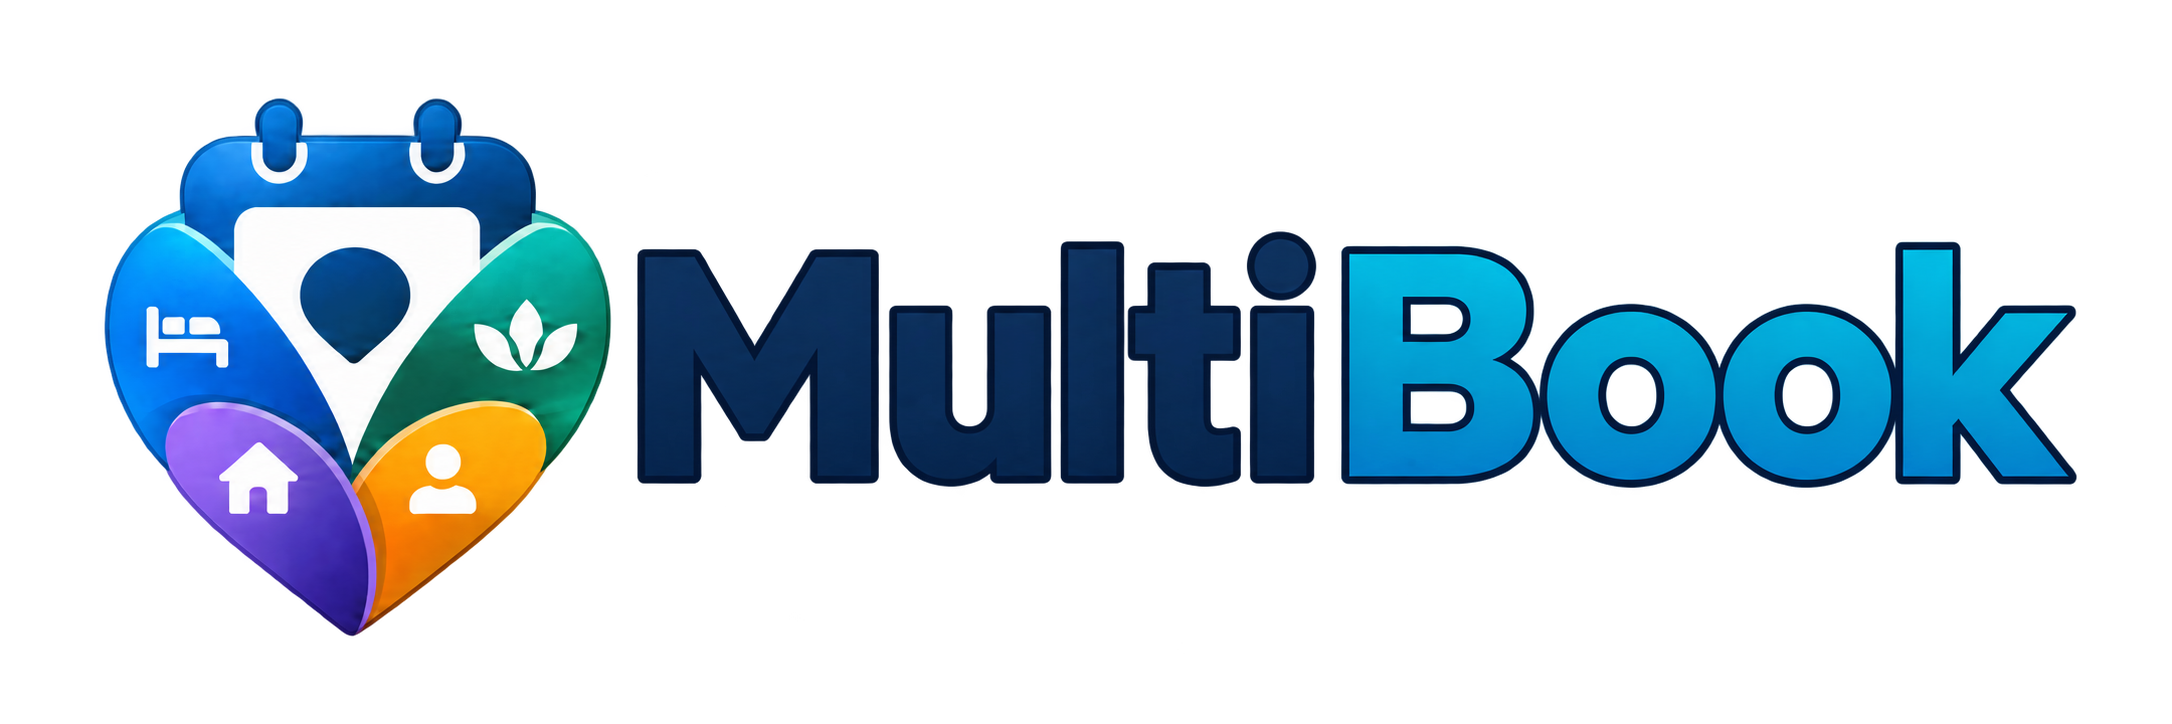
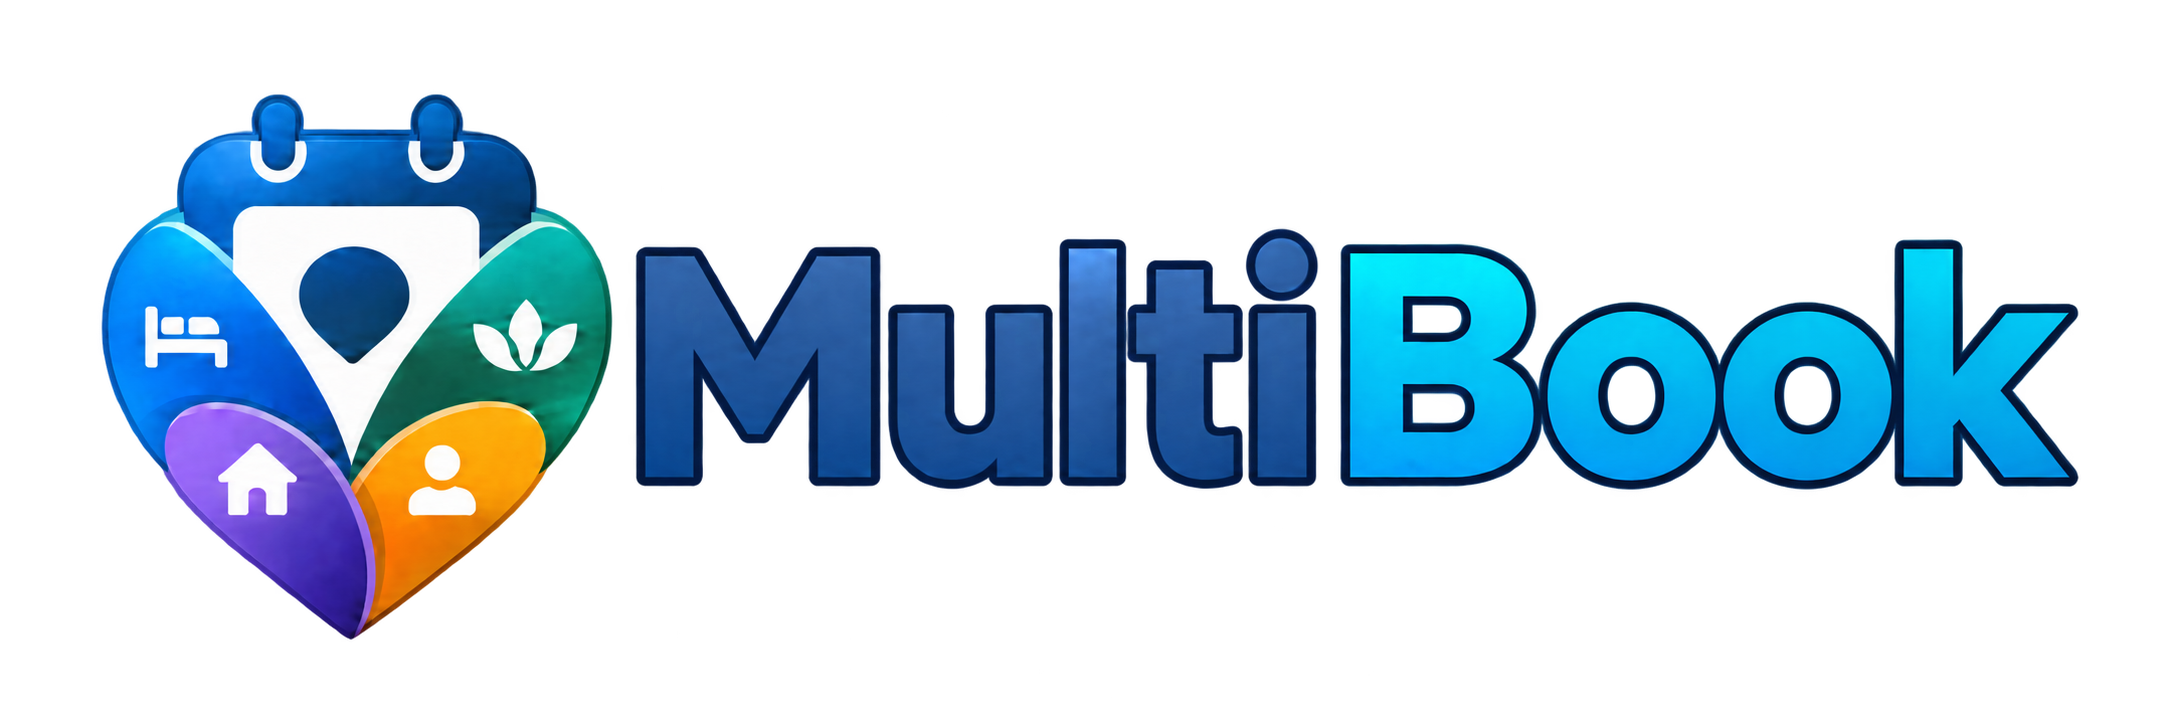
Light theme colors

diff --git a/lib/src/features/business-side/more/presentation/views/more_view.dart b/lib/src/features/business-side/more/presentation/views/more_view.dart
@@ -151,9 +151,8 @@ class MoreView extends HookWidget {
                     const SizedBox(height: 30),
                     CustomButton(
                       buttonName: context.l10n.logOut,
-                      color: Colors.transparent,
-                      textColor: const Color(0xFFFF4B4B),
-                      borderColor: const Color(0xFFFF4B4B),
+                      color: const Color(0xFFFF4B4B),
+                      textColor: Colors.white,
                       leadingIcon: const Icon(Icons.logout_rounded),
                       height: 48,
                       fontSize: 15,

diff --git a/lib/src/features/customer-side/dashboard/presentation/widgets/customer_home_top_bar.dart b/lib/src/features/customer-side/dashboard/presentation/widgets/customer_home_top_bar.dart
@@ -9,12 +9,15 @@ class CustomerHomeTopBar extends StatelessWidget {
 
   @override
   Widget build(BuildContext context) {
+    final logo = Theme.of(context).brightness == Brightness.light
+        ? Assets.images.multibookLight
+        : Assets.images.multibook;
     return Row(
       children: [
         Expanded(
           child: Align(
             alignment: Alignment.centerLeft,
-            child: Assets.images.multibook.image(
+            child: logo.image(
               height: 50,
               width: 170,
               fit: BoxFit.fitWidth,

diff --git a/lib/src/features/customer-side/profile/presentation/widgets/customer_profile_menu_item.dart b/lib/src/features/customer-side/profile/presentation/widgets/customer_profile_menu_item.dart
@@ -53,7 +53,10 @@ class CustomerProfileMenuItem extends StatelessWidget {
               ),
               child: Text(
                 '${badgeCount! > 9 ? '9+' : badgeCount}',
-                style: const TextStyle(fontWeight: FontWeight.w800),
+                style: const TextStyle(
+                  color: AppColors.white,
+                  fontWeight: FontWeight.w800,
+                ),
               ),
             ),
             const SizedBox(width: 8),

diff --git a/lib/src/features/business-side/more/presentation/widgets/more_menu_tile.dart b/lib/src/features/business-side/more/presentation/widgets/more_menu_tile.dart
@@ -41,7 +41,10 @@ class MoreMenuTile extends StatelessWidget {
               ),
               child: Text(
                 '${item.badgeCount}',
-                style: const TextStyle(fontWeight: FontWeight.w800),
+                style: const TextStyle(
+                  color: AppColors.white,
+                  fontWeight: FontWeight.w800,
+                ),
               ),
             ),
             const SizedBox(width: 8),

diff --git a/lib/src/features/customer-side/profile/presentation/views/customer_profile_view.dart b/lib/src/features/customer-side/profile/presentation/views/customer_profile_view.dart
@@ -167,6 +167,7 @@ class CustomerProfileView extends StatelessWidget {
                 CustomButton(
                   buttonName: context.l10n.logOut,
                   color: const Color(0xFFDC2626),
+                  textColor: AppColors.white,
                   onPressed: state.isLoading
                       ? null
                       : () => context.read<CustomerProfileCubit>().signOut(),

diff --git a/lib/src/features/business-side/promotions/presentation/widgets/promotion_badge.dart b/lib/src/features/business-side/promotions/presentation/widgets/promotion_badge.dart
@@ -16,7 +16,11 @@ class PromotionBadge extends StatelessWidget {
       child: Text(
         context.l10n.promotion,
         maxLines: 1,
-        style: const TextStyle(fontSize: 10, fontWeight: FontWeight.w800),
+        style: const TextStyle(
+          color: AppColors.white,
+          fontSize: 10,
+          fontWeight: FontWeight.w800,
+        ),
       ),
     ),
   );

diff --git a/lib/src/features/business-side/bookings/presentation/widgets/manage_appointment_sheet.dart b/lib/src/features/business-side/bookings/presentation/widgets/manage_appointment_sheet.dart
@@ -166,6 +166,7 @@ class ManageAppointmentSheet extends StatelessWidget {
                 CustomButton(
                   buttonName: context.l10n.declineAppointment,
                   color: Colors.redAccent,
+                  textColor: Colors.white,
                   height: 48,
                   fontSize: 16,
                   onPressed: () async {

diff --git a/lib/src/features/shared/chat/presentation/widgets/chat_conversation_tile.dart b/lib/src/features/shared/chat/presentation/widgets/chat_conversation_tile.dart
@@ -114,6 +114,7 @@ class ChatConversationTile extends StatelessWidget {
                     child: Text(
                       '$unreadCount',
                       style: const TextStyle(
+                        color: AppColors.white,
                         fontSize: 11,
                         fontWeight: FontWeight.w800,
                       ),

diff --git a/lib/src/features/shared/notifications/presentation/widgets/notification_bell.dart b/lib/src/features/shared/notifications/presentation/widgets/notification_bell.dart
@@ -37,6 +37,7 @@ class NotificationBell extends StatelessWidget {
                   child: Text(
                     count > 9 ? '9+' : '$count',
                     style: const TextStyle(
+                      color: Colors.white,
                       fontSize: 10,
                       fontWeight: FontWeight.w800,
                     ),
